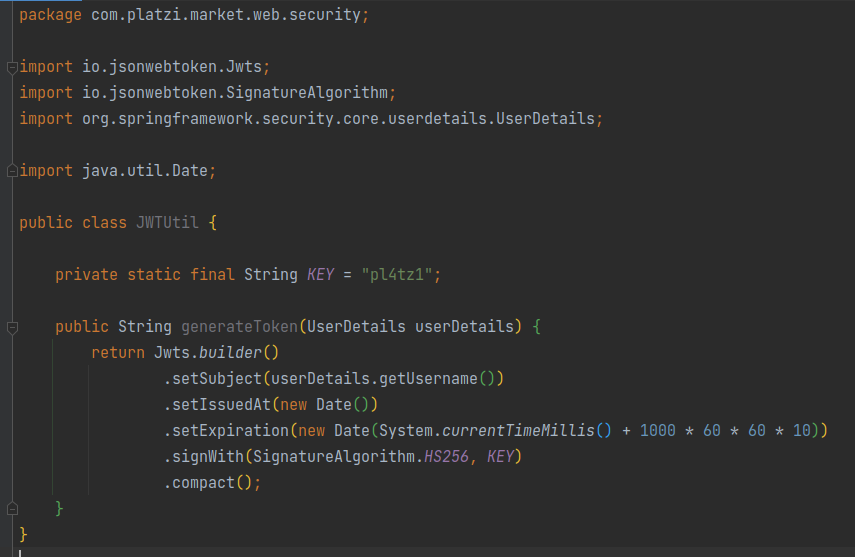
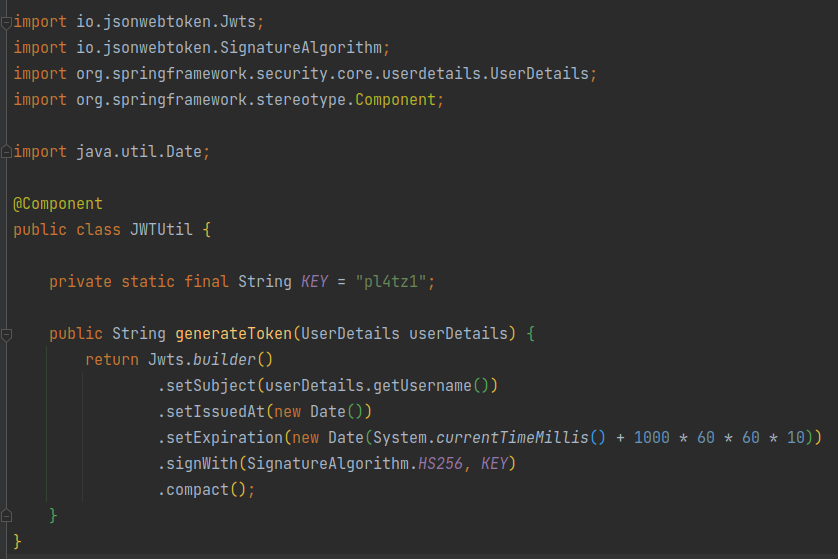
Clase 36

diff --git a/Curso de Java Spring.md b/Curso de Java Spring.md
@@ -984,7 +984,7 @@ Cabe mencionar que el usuario y el pass son un demo para demostrar, lo que deber
 ![35_JWT_01](src/Curso_de_Java_Spring/35_JWT_01.png)
 
 `JWT` es un estandar de código abierto basado en `JSON` para controlar la seguridad de nuestra app por medio de `tokens`.  
-Cuando usamos `JWT` para este `método` lo que debemos hacer es incluirlo en el header autorization de la petición con el prefijo `Bearer`.
+Cuando usamos `JWT` para este `método` lo que debemos hacer es incluirlo en el header de la autorization de la petición con el prefijo `Bearer`.
 
 ![35_JWT_02](src/Curso_de_Java_Spring/35_JWT_02.png)
 
@@ -999,7 +999,7 @@ En MVN lo encontramos buscando `JSON Web Token Support For The JVM » 0.9.1`.
 implementation 'io.jsonwebtoken:jjwt:0.9.1'
 ~~~
 
-Creamos una `clase`,`JWTUtil`, que se encargará de generar nuestros `JWT`, esto en `web.security`, creamos un `método` y usamos la reciente dependencia para crear `JWT` en una secuencia de `métodos`.
+Creamos una `clase`,`JWTUtil`, que se encargará de generar nuestros `JWT`, esto en `web.security`, creamos un `método`, lo anotamos con `@Component` y usamos la reciente dependencia para crear `JWT` en una secuencia de `métodos`.
 
 ![35_JWT_03](src/Curso_de_Java_Spring/35_JWT_03.png)
 
@@ -1012,8 +1012,8 @@ Creamos una `clase`,`JWTUtil`, que se encargará de generar nuestros `JWT`, esto
 Para poder generar un `JWT` tenemos que crear un `controlador` que reciba como `parámetro` el usuario y la contraseña y que como respuesta envie el `JWT`.
 
 Antes del `controlador`, es valido crear unas `clases` que controlen esto de una mejor manera, dentro del `paquete` `dto` creamos:
-- `AuthenticationRequest`: Para recibir los 2 `parámetros` a evaluar.
-- `AuthenticationResponse`: Que tendrá el `JWT`.
+- `AuthenticationRequest`: Para recibir los 2 `parámetros` a evaluar, con sus `Getters` y `Setters`.
+- `AuthenticationResponse`: Que tendrá el `JWT`, con sus `Getters`, `Setters` y `constructor`.
 
 ![35_JWT_04](src/Curso_de_Java_Spring/35_JWT_04.png)
 
@@ -1038,6 +1038,91 @@ calendar.add(Calendar.HOUR_OF_DAY,10);
 ---
 
 ## Clase 36 - Autenticación con JWT
+Teniendo nuestros `AuthenticationRequest` y `AuthenticationResponse` es hora de crear el `controlador` que va a ser las veces de autenticación, para esto creamos una `clase` en `controller` llamada `AuthController`, con sus anotaciones de `controller` y va a tener un `método` que se encargue de responder un `JWT` cuando alguien trate de iniciar sesión.
+
+![36_Autenticacion_JWT_01](src/Curso_de_Java_Spring/36_Autenticacion_JWT_01.png)
+
+El `createToken` recibe un `AuthenticationRequest` en el body a través del `@PostMapping` y le decimos al gestor de autenticación de `Spring` que verifique si el usuario y la contraseña son correctos, para esto inyectamos el `AuthenticationManager` que tiene `Spring` y lo verificamos con `autenticate` que recibe un `UsernamePasswordAuthenticationToken`, porque nuestra comprobación se va a hacer a través de un usuario y una contraseña.
+
+Ya con esto vamos a obtener los datos del usuario a través del servicio que creamos para este fin, inyectamos el `PlatziUserDetailsService`, que es el que se encarga de generar la seguridad por usuario y pass, y lo guardamos en un `userDetails`. Y solo nos queda generar el `JWT` con `JWTUtil` que recibe el `userDetails`.  
+Retornamos un `ResponseEntity` con el `jwt` y un `OK`.
+
+Todo esto dentro de un `try-catch`, si el usuario o el pass es incorrecto capturamos la `exception` y simplemente informamos con un `FORBIDDEN`.
+
+Para finalizar vamos a `SecurityConfig` para indicar que queremos autorizar todas las peticiones que se reciba en `"/authenticate"`, porque para invocar este `servicio` no necesitan estar autenticados.
+
+![36_Autenticacion_JWT_02](src/Curso_de_Java_Spring/36_Autenticacion_JWT_02.png)
+
+Para esto sobreescribimos `configure` que recibe un `HttpSecurity`, borramos la configuración por defecto y escribimos esta nueva.
+
+- `csrf().disable()`: Deshabilita las peticiones cruzadas.
+- `authorizeRequest()`: Autoriza las peticiones.
+- `antMatchers()`: Escribimos que es lo que quiero permitir, en este caso este `servicio` `"/authenticate"`, todas las peticiones que terminan con `authenticate` van a tener el permiso.
+- `anyRequest().authenticated()`: Indicamos que el resto de peticiones, si necesitan autenticación.
+
+Como desde `AuthController` estamos usando el `AuthenticationManager` debemos incluirlo también y solo sobreescribimos `authenticationManagerBean` ya que `Spring` es quien controla la gestión de autenticación. Le agregamos `@Bean` para que no simplemente lo use si no para que explicitamente que lo estamos eligiendo como gestor de autenticación de la app.
+
+Ahora para hacer alguna consulta, habrá que autenticarse y con el `JWT`, que obtenemos como respuesta cuando nos logueamos, podemos hacer el resto de las peticiones.
+
+![36_Autenticacion_JWT_03](src/Curso_de_Java_Spring/36_Autenticacion_JWT_03.png)
+
+---
+
+Para permitir la visualización de `Swagger` públicamente sin tener que estar autenticados en la aplicación pueden agregar el siguiente `método` en la clase `SecurityConfig`:
+~~~
+@Override
+public void configure(WebSecurity web) throws Exception {
+    web.ignoring().antMatchers("/v2/api-docs", "/configuration/ui",
+            "/swagger-resources/**", "/configuration/security",
+            "/swagger-ui.html", "/webjars/**");
+}
+~~~
+
+Otra alternativa es agregar estas rutas 👆 al `antMatchers("/**/authenticate", …)` que escribimos en el `método` `configure(HttpSecurity http)` de esta clase que estás viendo.
+
+---
+
+**En un ambiente productivo, ¿Cómo se puede bloquear la pruebas de estas apis en swagger?**  
+En este aporte explico a detalle como proteger Swagger con la autenticación de la aplicación.
+
+![36_Autenticacion_JWT_04](src/Curso_de_Java_Spring/36_Autenticacion_JWT_04.png)
+
+Existen varias formas y te voy a mostrar una.
+
+Para poner ese botón tienes que modificar la clase `SwaggerConfig` y agregar el siguiente `método`:
+~~~
+private ApiKey apiKey(){
+	returnnew ApiKey("JWT", "Authorization", "header");
+}
+~~~
+
+Ahora, en el método `api()` de la misma `clase`, debes adicionar la línea `.securitySchemes(Arrays.asList(apiKey()))` al `builder` de `Docket` que tenemos; te quedará algo así:
+~~~
+@Bean
+public Docket api(){
+	returnnew Docket(DocumentationType.SWAGGER_2)
+		.securitySchemes(Arrays.asList(apiKey()))
+		.select()
+		.apis(RequestHandlerSelectors.basePackage("com.platzi.market.web.controller"))
+		.build();
+}
+~~~
+
+Ahora, a cada operación que quieras incluirle el `JWT` debes agregarle el `parámetro` `authorizations`, teniendo cuidado de usar el valor “JWT” que declaramos en el `método` `apiKey()` de la `clase` `SwaggerConfig`.  
+Por ejemplo, la anotación para el `método` `getAll()` de la clase `ProductController` quedaría así:
+~~~
+@ApiOperation(value = "Get all supermarket products", authorizations = { @Authorization(value="JWT") })
+~~~
+
+Con esto ya tendrás ese botón Authorize. Al darle click te saldrá un modal donde te pedirá que ingreses el `JWT`; ahí lo ingresas (incluyendo el `Bearer`), le das Authorize y luego close.
+
+![36_Autenticacion_JWT_05](src/Curso_de_Java_Spring/36_Autenticacion_JWT_05.jpg)
+
+En este punto ya está cargado el `token` en `Swagger` y todas las peticiones que realices van a tener el `Header` de `Authorization` y se resolverán sin problemas. Verás que tienen un candado abierto o cerrado según el caso.
+
+![36_Autenticacion_JWT_06](src/Curso_de_Java_Spring/36_Autenticacion_JWT_06.jpg)
+
+Otra alternativa sería agregar un `parámetro` global (ya no aparecería el botón Authorize) para todos nuestros `enpoints` tal cual y como lo hacen en este [post](https://thearjunmdas.github.io/entries/authorization-field-in-swagger-ui/).
 
 ---
 
